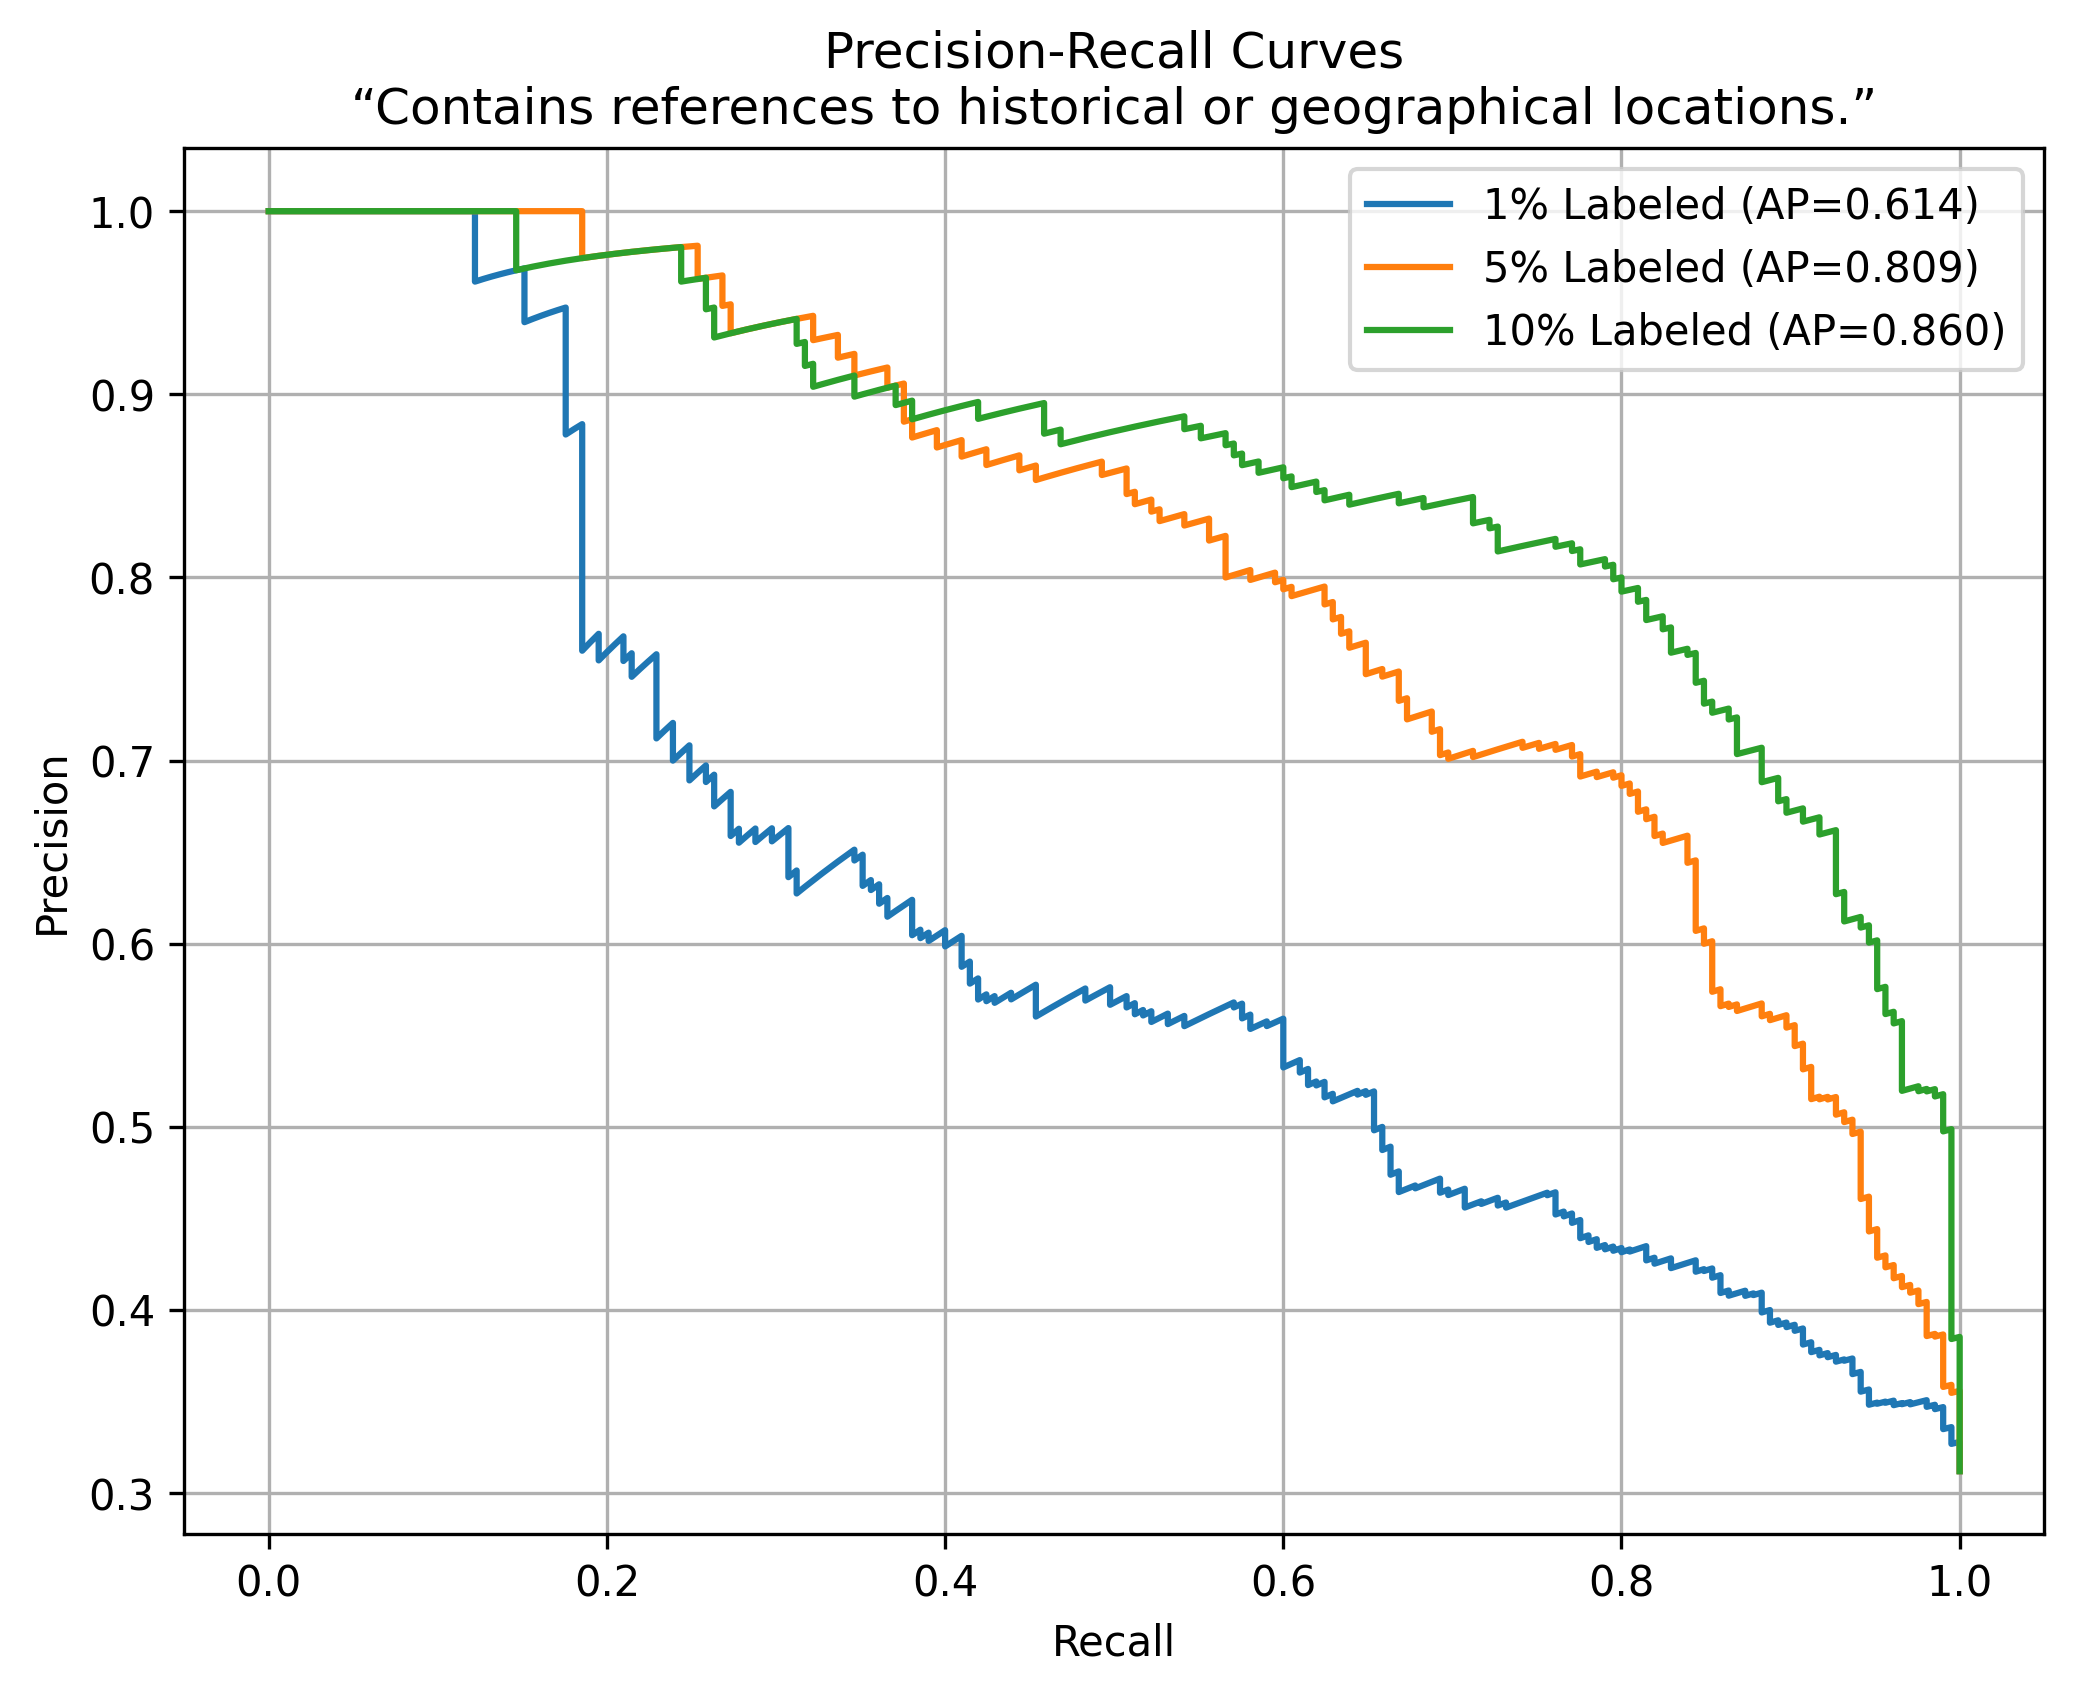
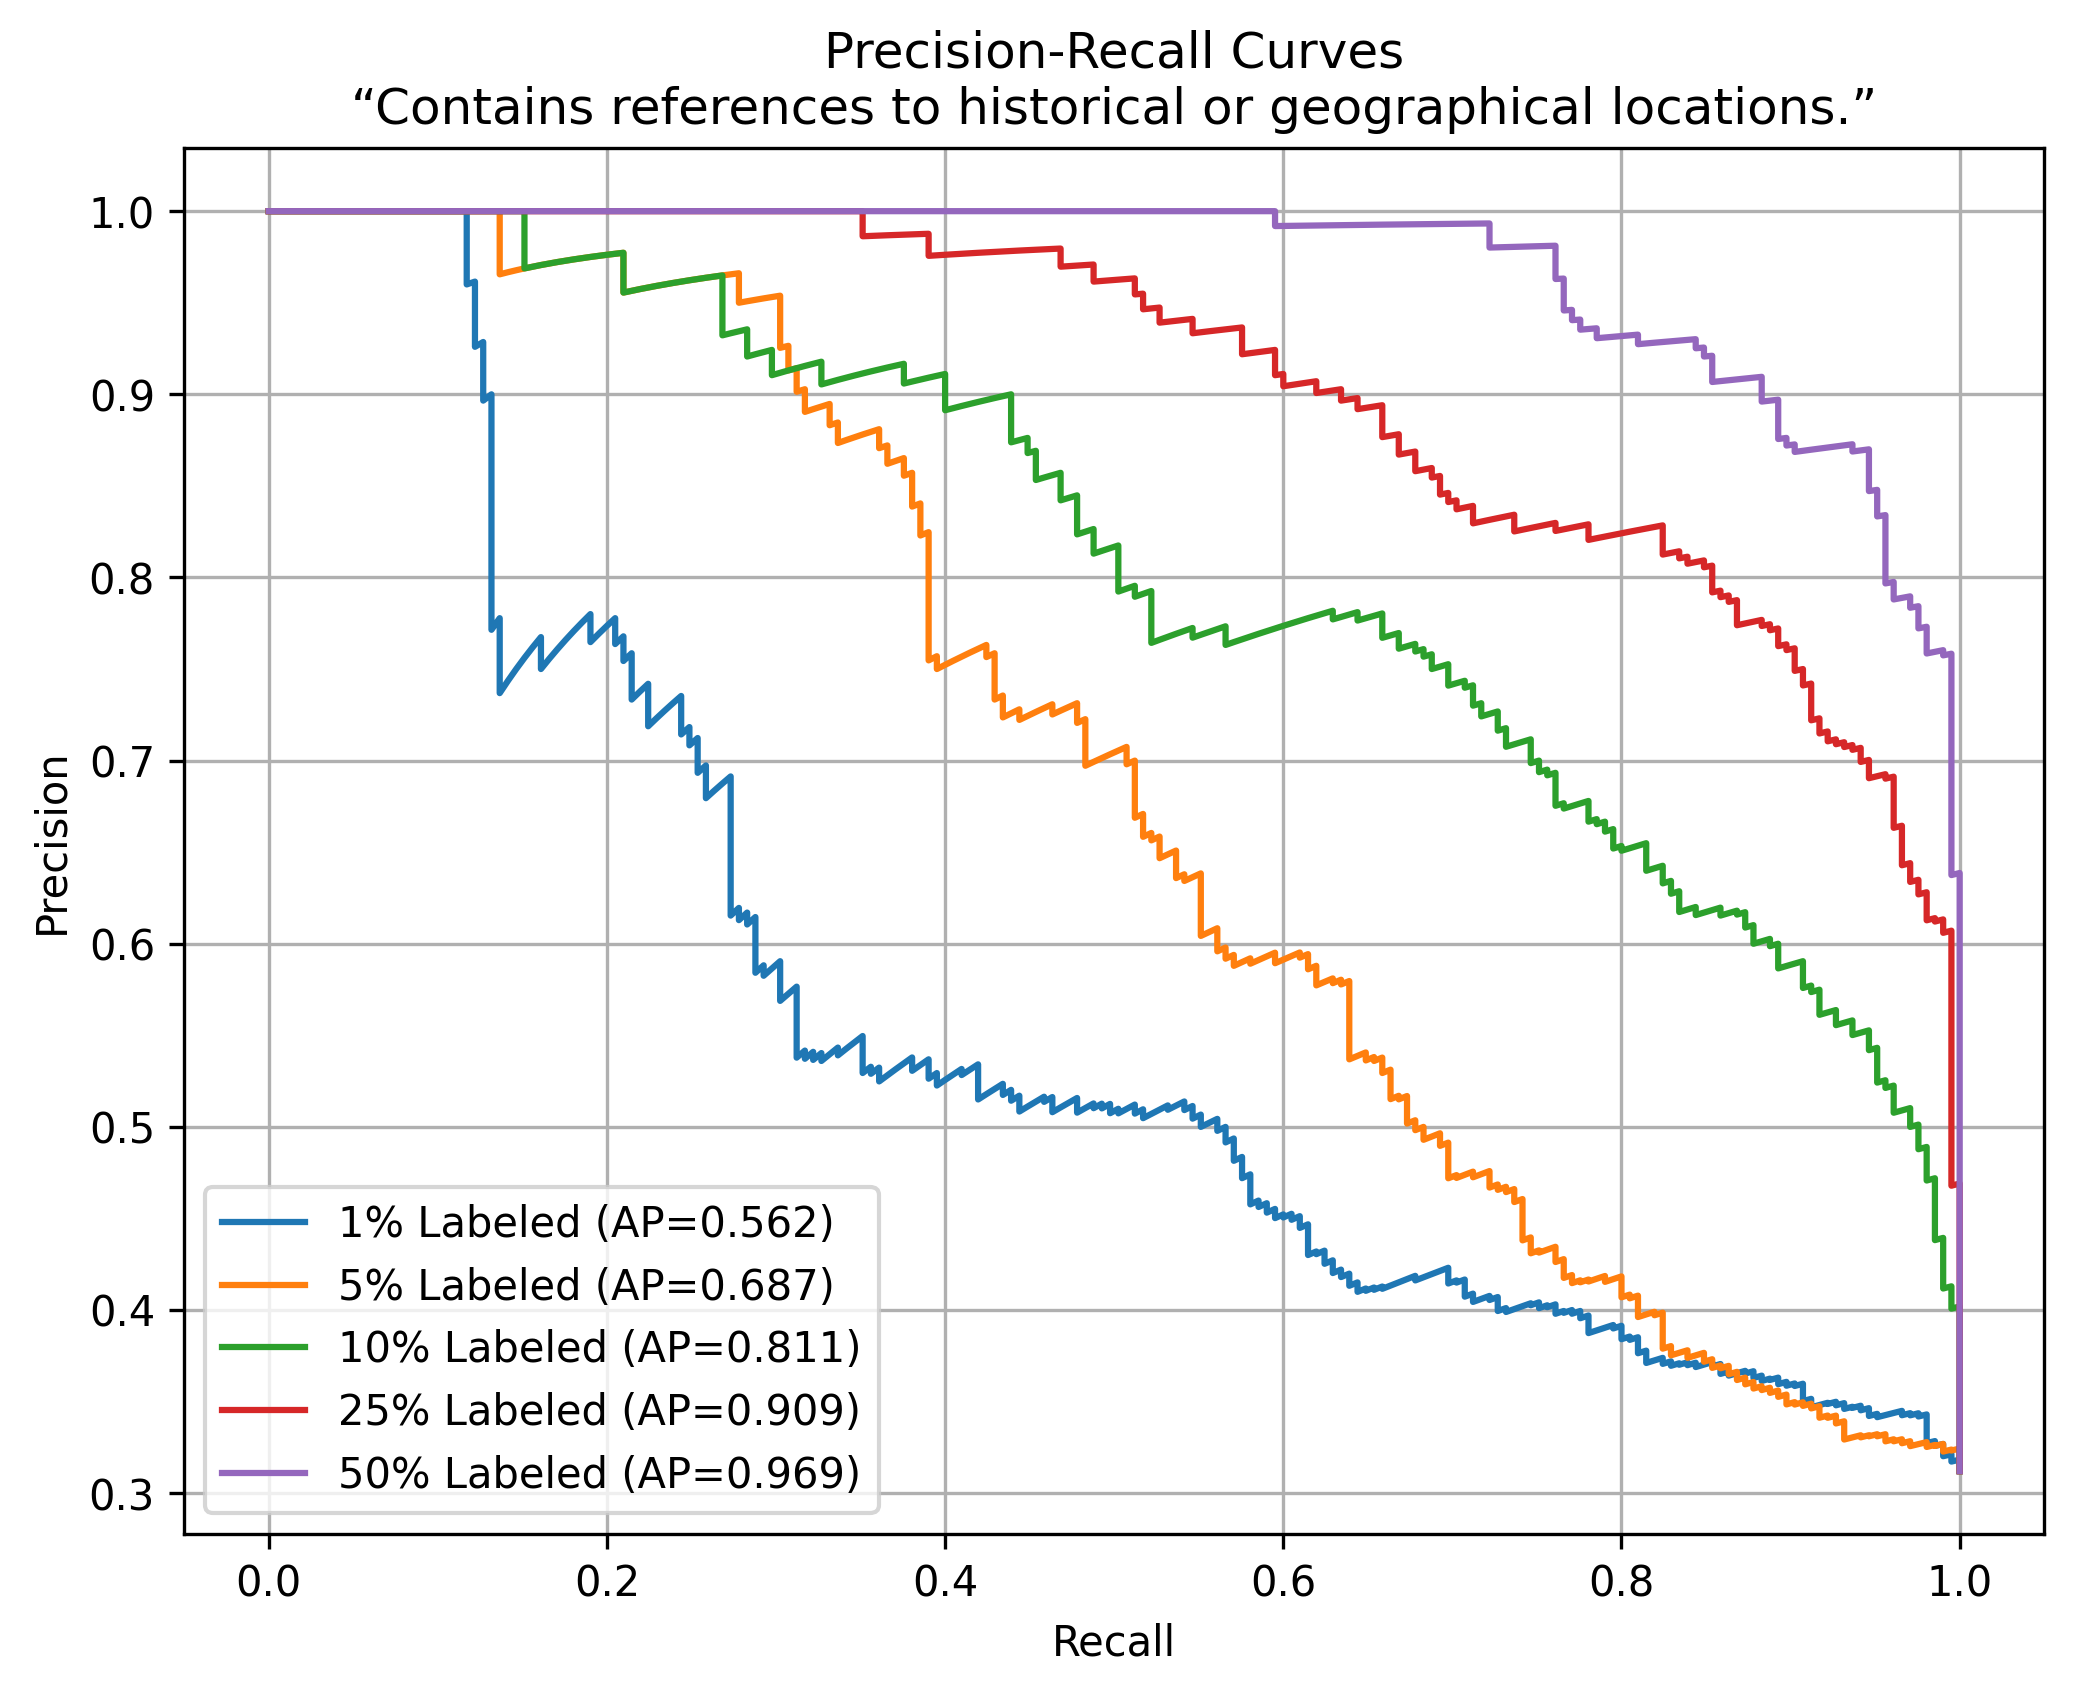
added 25 and 50 percent propagations for lprop

diff --git a/label_progation.py b/label_progation.py
@@ -84,43 +84,69 @@ def prepare_data(hypothesis: dict):
         X.append(embeds[key])
         Y0.append(round(value))
 
+    fifty_per_len = round(len(X) * 0.5)
+    twentyfive_per_len = round(len(X) * 0.25)
     ten_per_len = round(len(X) * 0.1)
     five_per_len = round(len(X) * 0.05)
     one_per_len = round(len(X) * 0.01)
 
+    fifty_per_indices = set()
+    twentyfive_per_indices = set()
     ten_per_indices = set()
     five_per_indices = set()
     one_per_indices = set()
     # sets that will be used to track what indexes are used
-    while len(ten_per_indices) <= ten_per_len:
+    while len(fifty_per_indices) <= fifty_per_len:
         new_index = random.randint(0, len(Y0))
-        ten_per_indices.add(new_index)
-        if len(five_per_indices) <= five_per_len:
-            five_per_indices.add(new_index)
-            if len(one_per_indices) <= one_per_len:
-                one_per_indices.add(new_index)
+        fifty_per_indices.add(new_index)
+        if len(twentyfive_per_indices) <= twentyfive_per_len:
+            twentyfive_per_indices.add(new_index)
+            if len(ten_per_indices) <= ten_per_len:
+                ten_per_indices.add(new_index)
+                if len(five_per_indices) <= five_per_len:
+                    five_per_indices.add(new_index)
+                    if len(one_per_indices) <= one_per_len:
+                        one_per_indices.add(new_index)
 
+    Y50 = []
+    Y25 = []
     Y10 = []
     Y5 = []
     Y1 = []
     for i in range(len(Y0)):
+        val = Y0[i]
         if i in one_per_indices:
-            Y1.append(Y0[i])
-            Y5.append(Y0[i])
-            Y10.append(Y0[i])
+            Y1.append(val)
+            Y5.append(val)
+            Y10.append(val)
+            Y25.append(val)
+            Y50.append(val)
         else:
             Y1.append(-1)
             if i in five_per_indices:
-                Y5.append(Y0[i])
-                Y10.append(Y0[i])
+                Y5.append(val)
+                Y10.append(val)
+                Y25.append(val)
+                Y50.append(val)
             else:
                 Y5.append(-1)
                 if i in ten_per_indices:
-                    Y10.append(Y0[i])
+                    Y10.append(val)
+                    Y25.append(val)
+                    Y50.append(val)
                 else:
                     Y10.append(-1)
+                    if i in twentyfive_per_indices:
+                        Y25.append(val)
+                        Y50.append(val)
+                    else:
+                        Y25.append(-1)
+                        if i in fifty_per_indices:
+                            Y50.append(val)
+                        else:
+                            Y50.append(-1)
 
-    return (X, Y0, Y1, Y5, Y10)
+    return (X, Y0, Y1, Y5, Y10, Y25, Y50)
 
 if __name__ == '__main__':
 # get args
@@ -133,7 +159,7 @@ if __name__ == '__main__':
     for hyp in data:
 # for each hypothesis in the data file
 #   prepare the data (func)
-        X, Y0, Y1, Y5, Y10 = prepare_data(hyp)
+        X, Y0, Y1, Y5, Y10, Y25, Y50 = prepare_data(hyp)
 #	fit the model
 #	run it
 #	plot the results
@@ -152,10 +178,22 @@ if __name__ == '__main__':
         p10, r10, _ = precision_recall_curve(Y0, Y10_score)
         avg10 = average_precision_score(Y0, Y10_score)
 
+        model.fit(X, Y25)
+        Y25_score = model.label_distributions_[:, 1]
+        p25, r25, _ = precision_recall_curve(Y0, Y25_score)
+        avg25 = average_precision_score(Y0, Y25_score)
+
+        model.fit(X, Y50)
+        Y50_score = model.label_distributions_[:, 1]
+        p50, r50, _ = precision_recall_curve(Y0, Y50_score)
+        avg50 = average_precision_score(Y0, Y50_score)
+
         plt.figure(figsize=(8, 6))
         plt.plot(r1, p1, label=f"1% Labeled (AP={avg1:.3f})")
         plt.plot(r5, p5, label=f"5% Labeled (AP={avg5:.3f})")
         plt.plot(r10, p10, label=f"10% Labeled (AP={avg10:.3f})")
+        plt.plot(r25, p25, label=f"25% Labeled (AP={avg25:.3f})")
+        plt.plot(r50, p50, label=f"50% Labeled (AP={avg50:.3f})")
 
         plt.xlabel("Recall")
         plt.ylabel("Precision")
